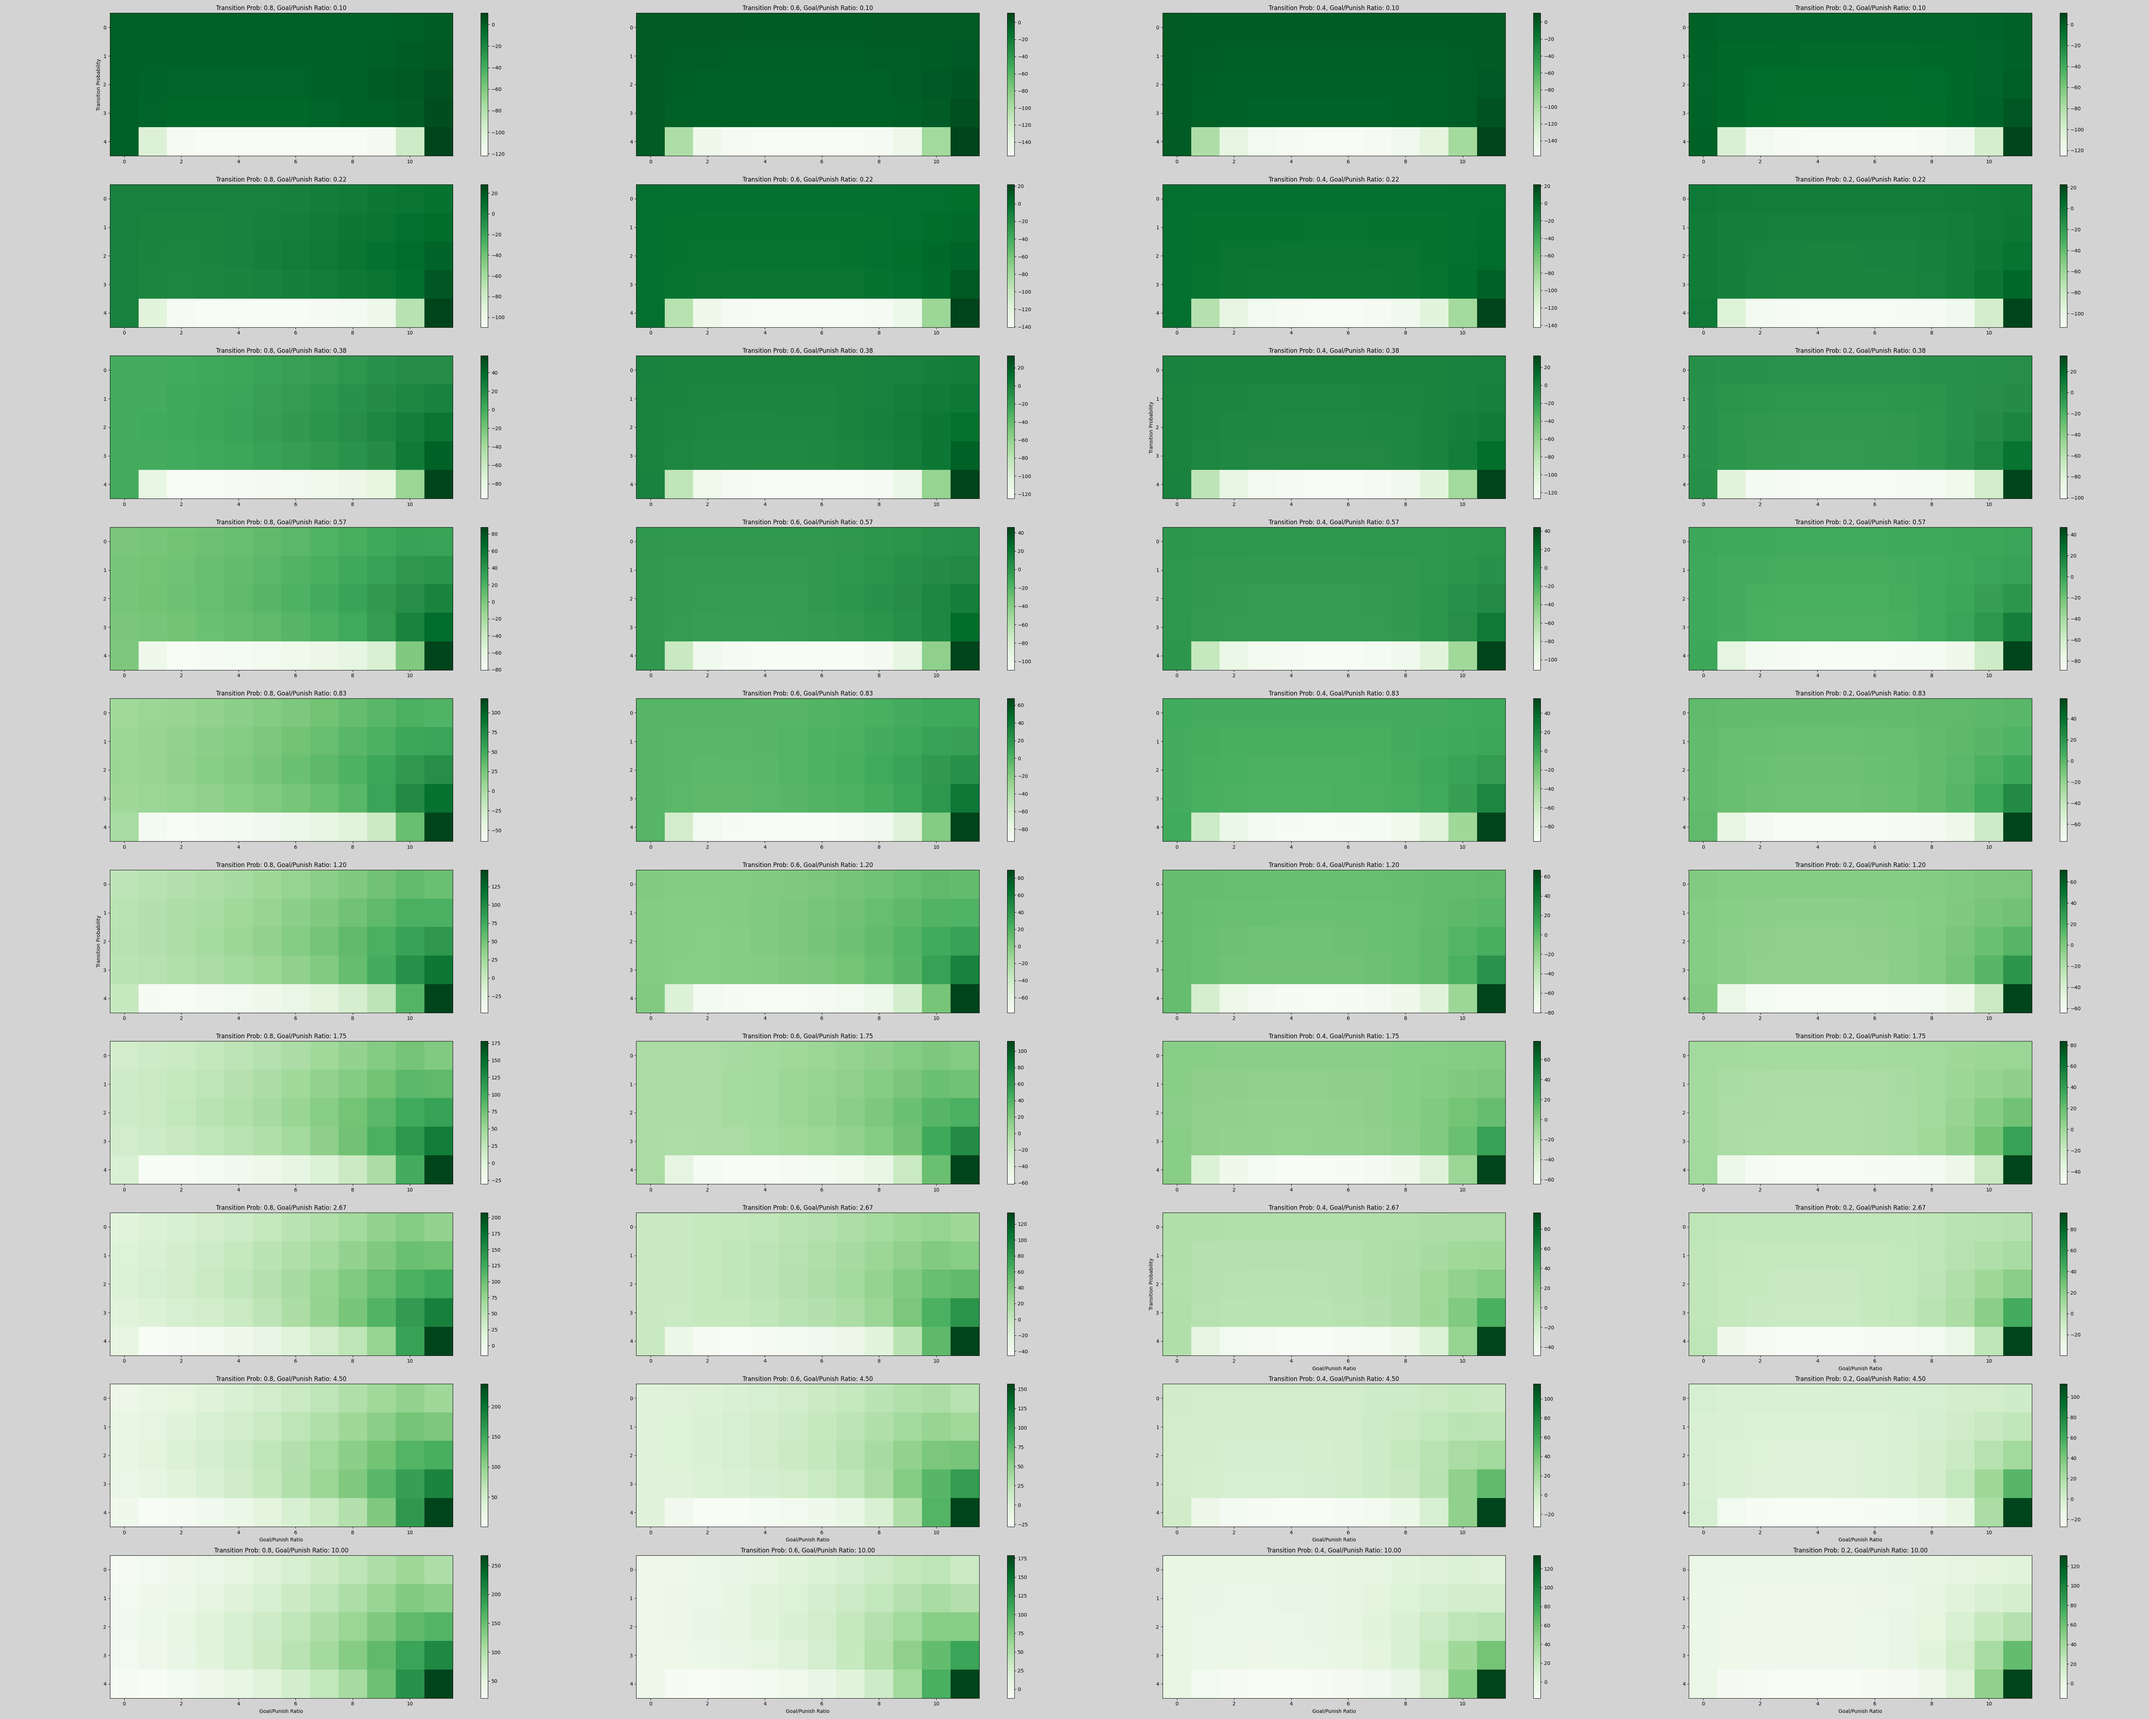
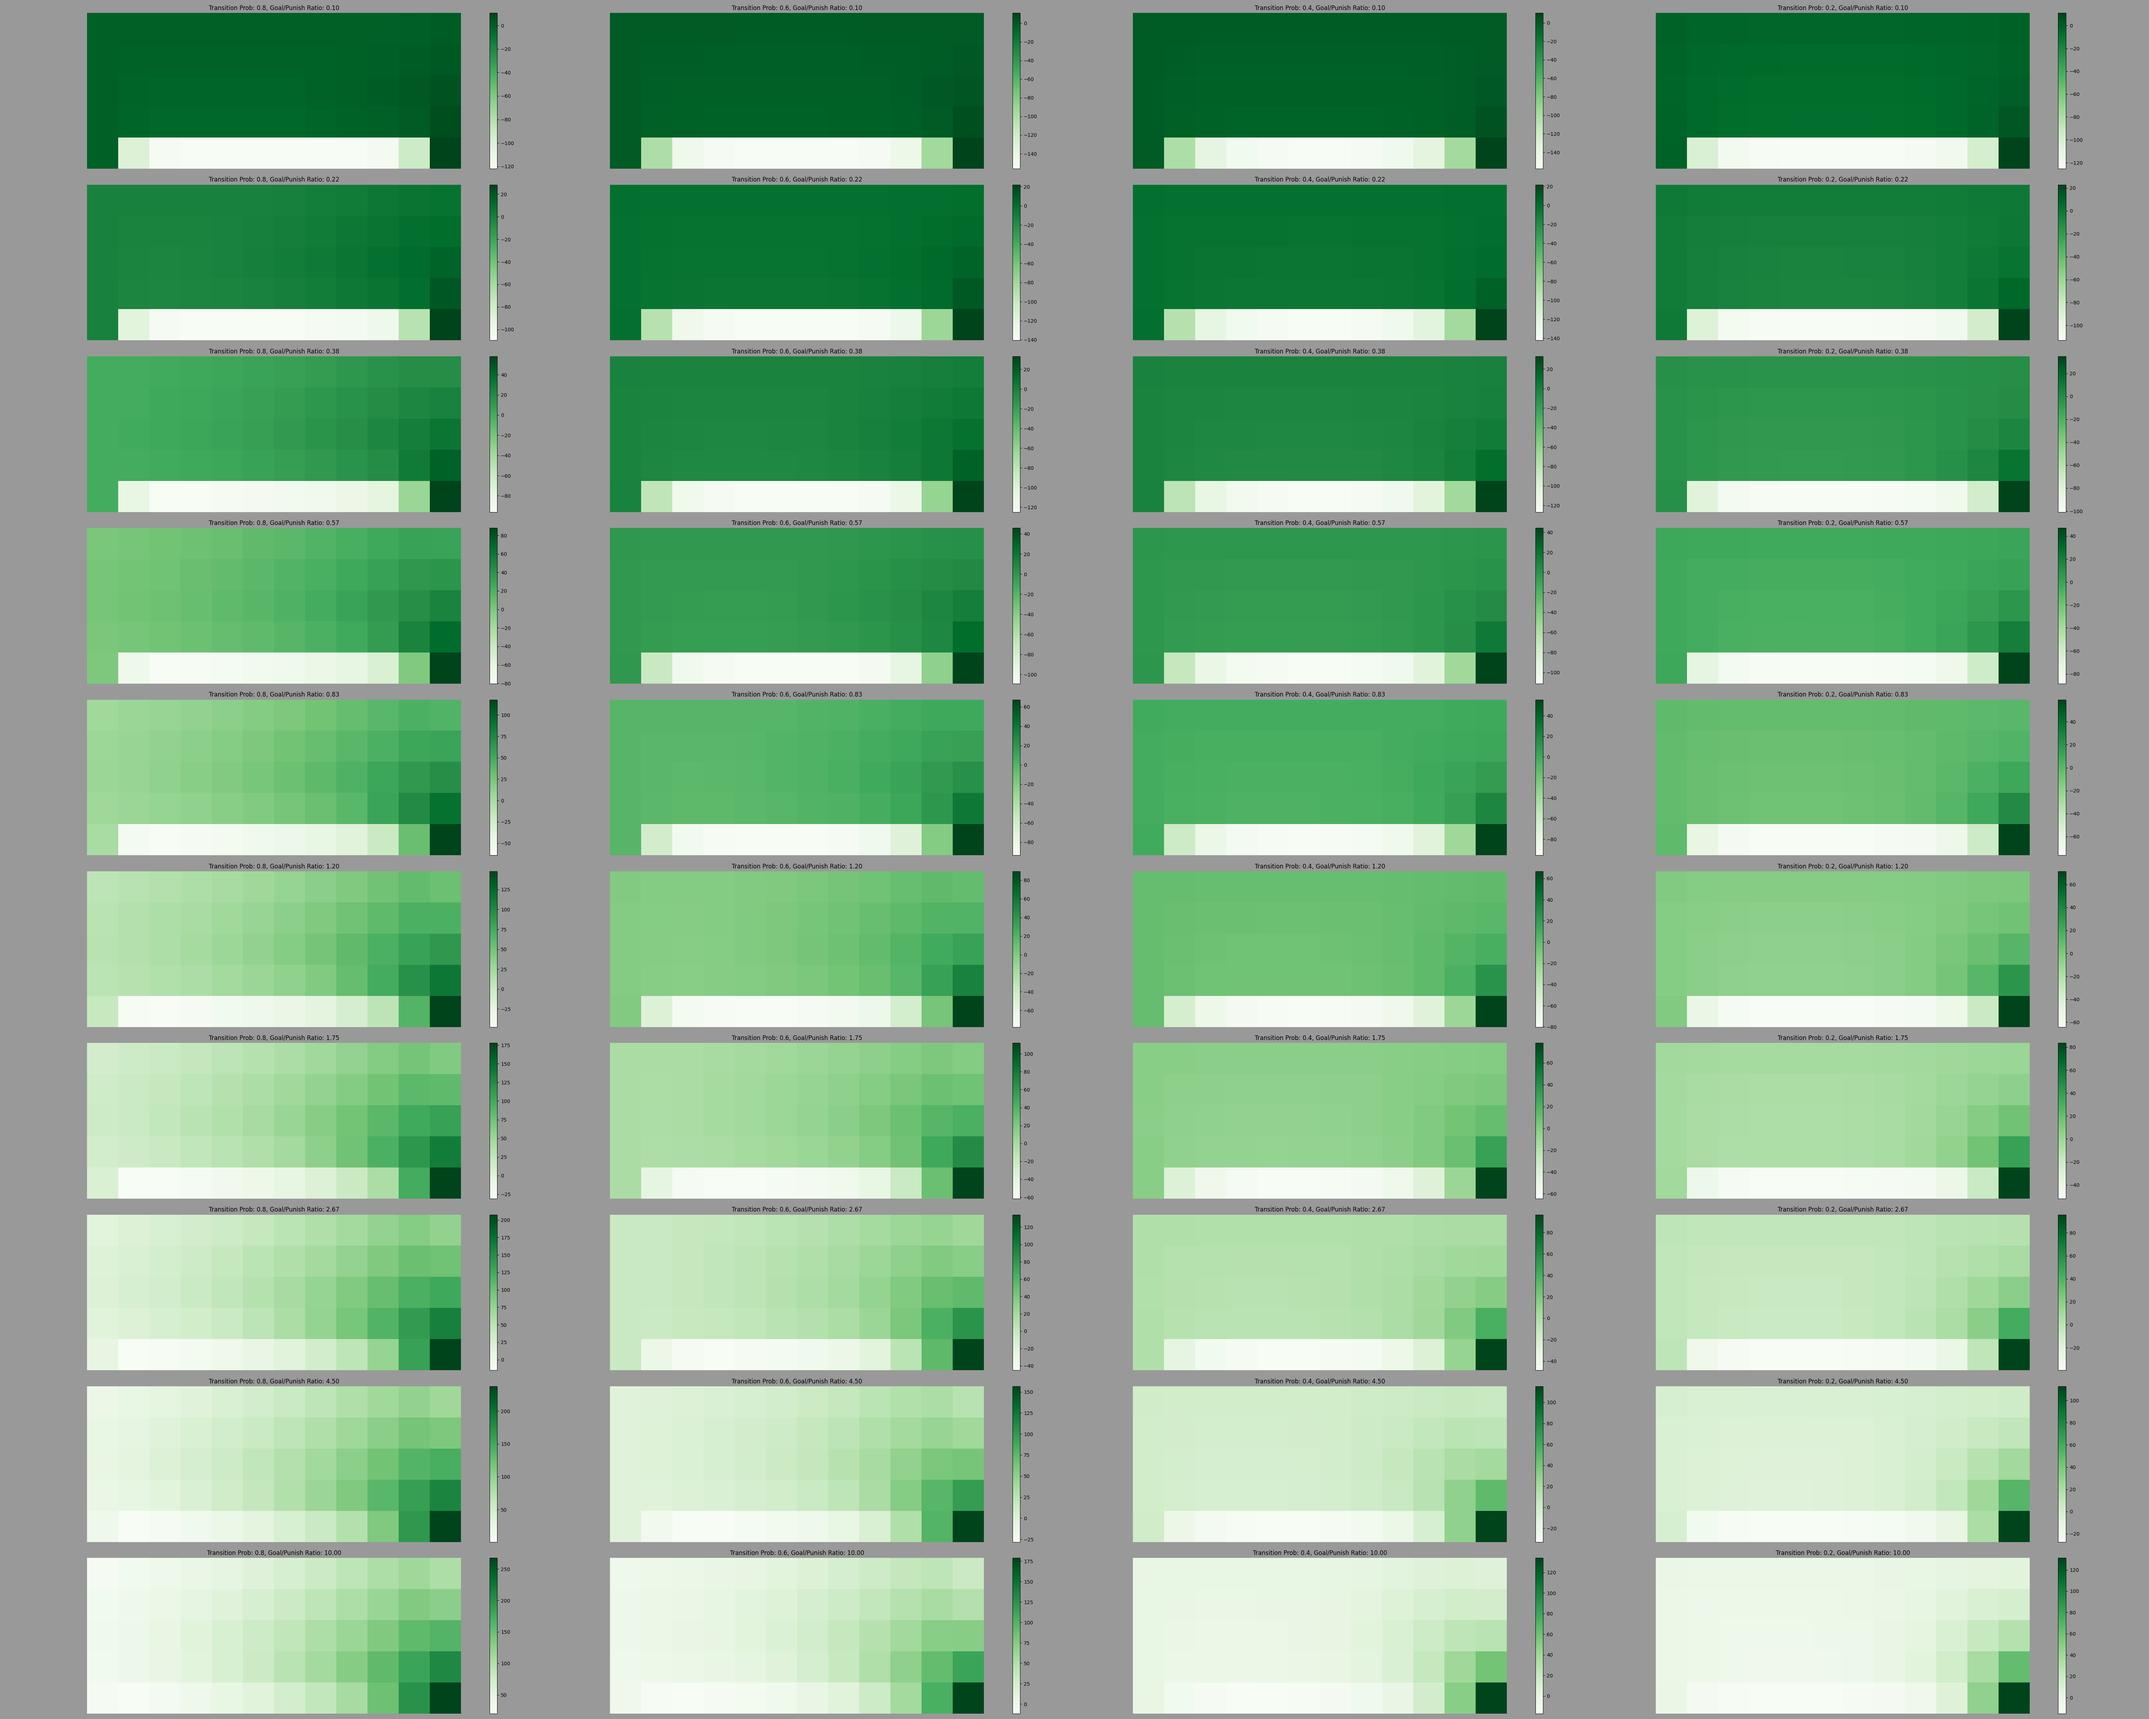
changed the background and removed axes on the colormaps

diff --git a/valueIteration/value-iter.py b/valueIteration/value-iter.py
@@ -127,7 +127,7 @@ def create_multiplot(value_iteration_results):
 
         fig, axes = plt.subplots(num_cols, num_rows, figsize=(60, 48))  # Adjust the figure size as needed
         # Set the background color of the figure
-        fig.patch.set_facecolor('lightgrey')  # Set to the desired color
+        fig.patch.set_facecolor('#999999')  # Set to the desired color
 
         # FLatten the axes
         axes = axes.flatten()
@@ -145,6 +145,7 @@ def create_multiplot(value_iteration_results):
             ax = axes[i]
             heatmap = ax.imshow(values, cmap='Greens')
             ax.set_title(f'Transition Prob: {transition_prob}, Goal/Punish Ratio: {goal_reward/punishment:.2f}')
+            ax.axis('off')
             fig.colorbar(heatmap, ax=ax)
 
             # Set the x and y axis labels only on the bottom row and left column
